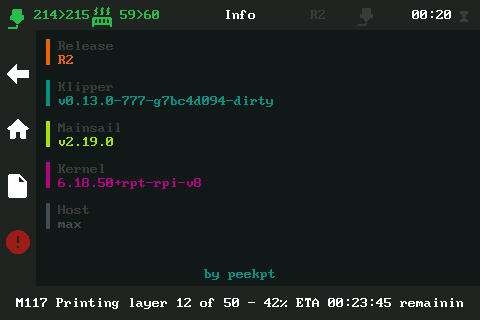
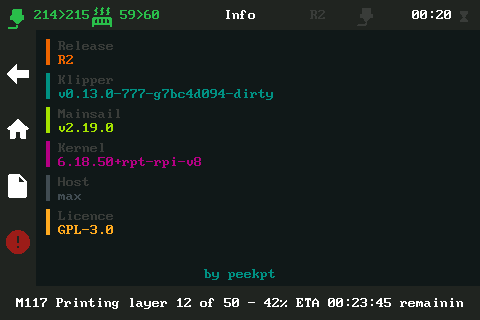
licence: GPL-3.0-or-later
- LICENSE: the licence name plus the copyright (GPL-3.0-or-later)
- README: licence section with the Klipper and MDI attributions
- Info screen: Licence line

Changed region(s): [[0.0938, 0.2188, 0.5938, 0.75]]

diff --git a/mcu/st7796.py b/mcu/st7796.py
@@ -3644,6 +3644,7 @@ class ST7796:
         except Exception:
             hn = '-'
         out.append(("Host", hn, COL_ACTIVE))
+        out.append(("Licence", "GPL-3.0", COL_WARN))
         return out
     def _info_view_ops(self, ops, eventtime):
         x0 = self.RAIL_W + 10

diff --git a/README.md b/README.md
@@ -312,4 +312,10 @@ layout change without touching the printer (needs Python + Pillow).
 
 ## Licence
 
-GPLv3 (the MCU driver and the host chip follow Klipper's licence).
+**GPL-3.0-or-later** (c) 2026 peekpt.
+
+The MCU driver (`fsmc_tft.c`) and the host chip (`st7796.py`) are built on
+[Klipper](https://www.klipper3d.org/) (GPLv3, (c) Kevin O'Connor and
+contributors), so they follow the same licence.
+Icons: Material Design Icons (c) Pictogrammers, Apache-2.0; the printer and
+sensor icons are original artwork for this project.
